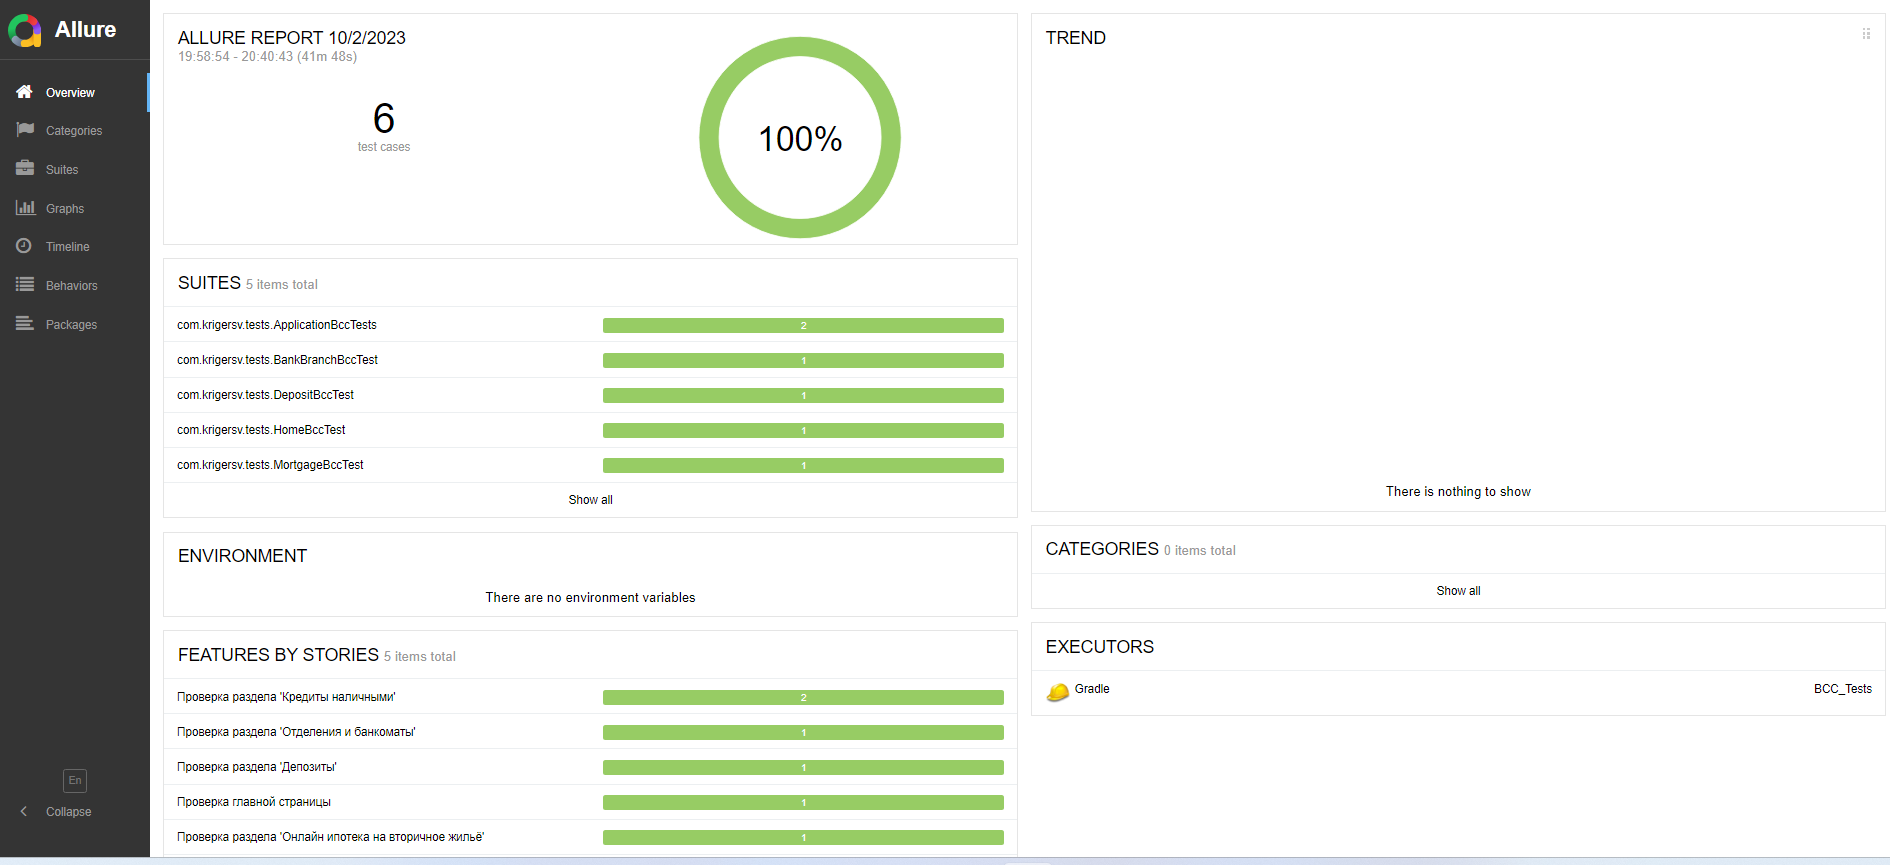
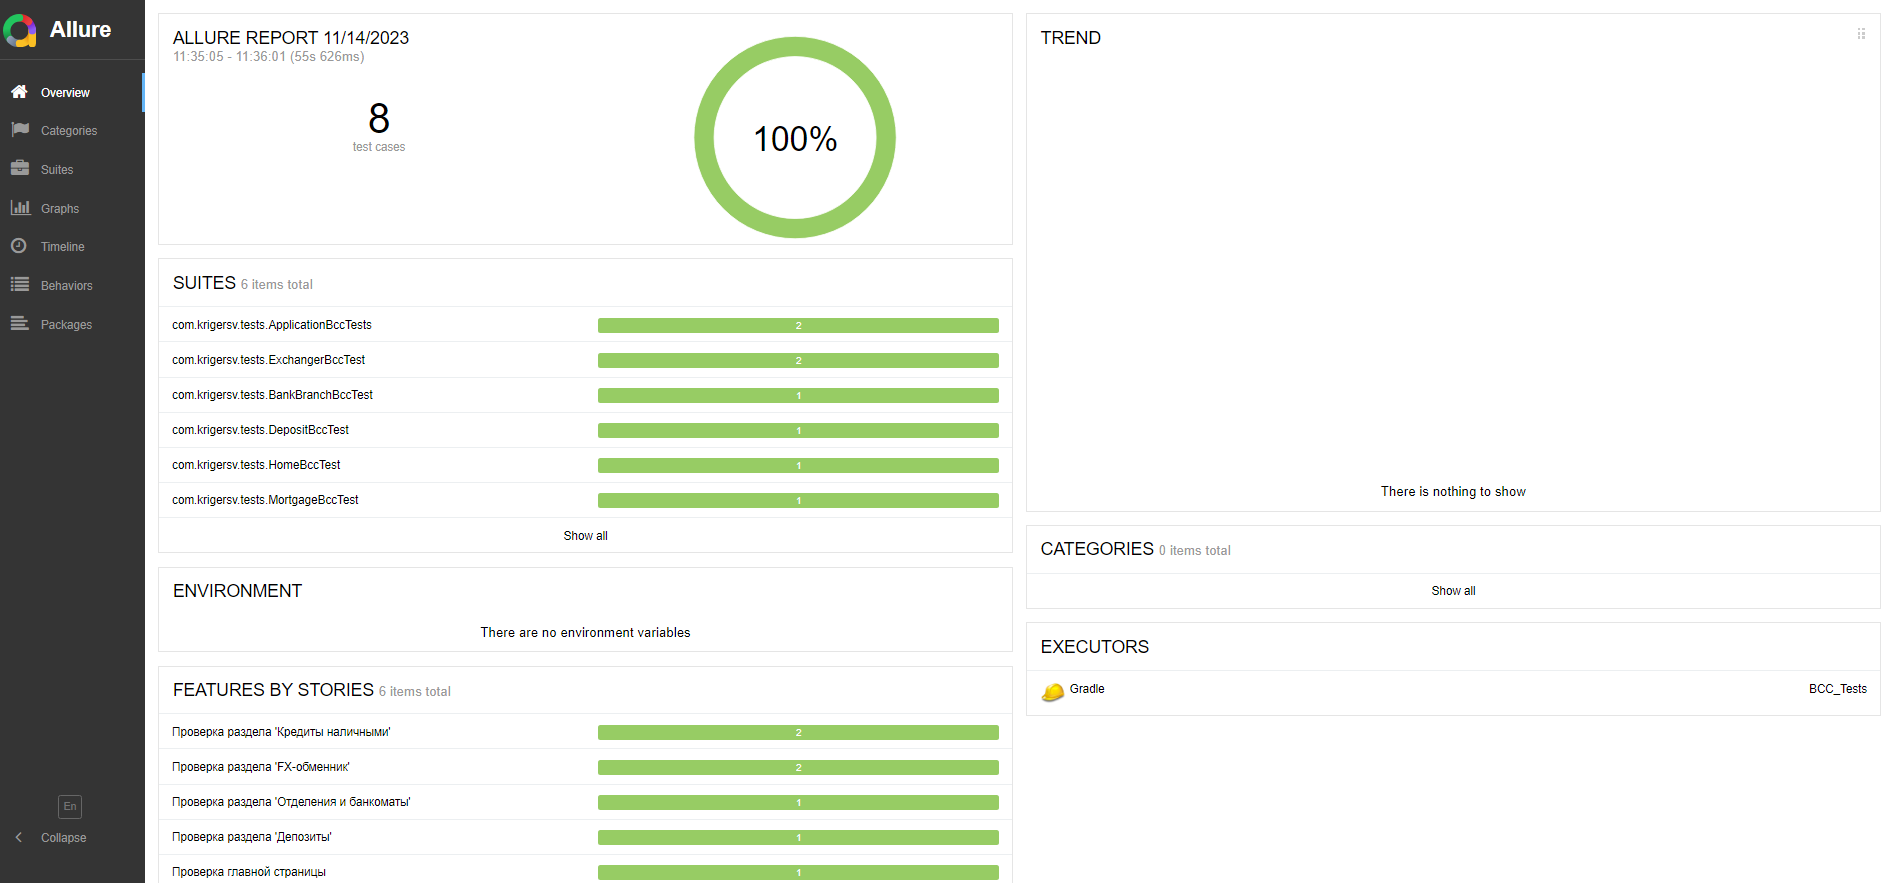
psv

diff --git a/README.md b/README.md
@@ -52,7 +52,7 @@
    - :heavy_check_mark:_Проверка изменения расчёта калькулятора при нажатии на чекбокс_
 5. [Раздел "Депозиты"](https://github.com/StasK86/BCC_Tests/blob/master/src/test/java/com/krigersv/tests/DepositBccTest.java)
    - :heavy_check_mark:_Проверка заполнения заявки на Депозит “Чемпион”_
-6. [Раздел "FX-обменник"](https://github.com/StasK86/BCC_Tests/blob/master/src/test/java/com/krigersv/tests/DepositBccTest.java)
+6. [Раздел "FX-обменник"](https://github.com/StasK86/BCC_Tests/blob/master/src/test/java/com/krigersv/tests/ExchangerBccTest.java)
    - :heavy_check_mark:_Проверка элементов 'Какие возможности вам дает FX-обменник?'_
    - :heavy_check_mark:_Проверка заполнения поля 'Получить консультацию'_
 
@@ -89,7 +89,8 @@ ${TASK}
 -Dbrowser=${BROWSER}
 -DbrowserSize=${BROWSER_SIZE}
 -DbrowserVersion=${BROWSER_VERSION}
--DselenoidUrl=${SELENOID_URL}
+-DbaseUrl=${BASE_URL}
+-DremoteUrl=${REMOTE_URL}
 ```
 
 ---
